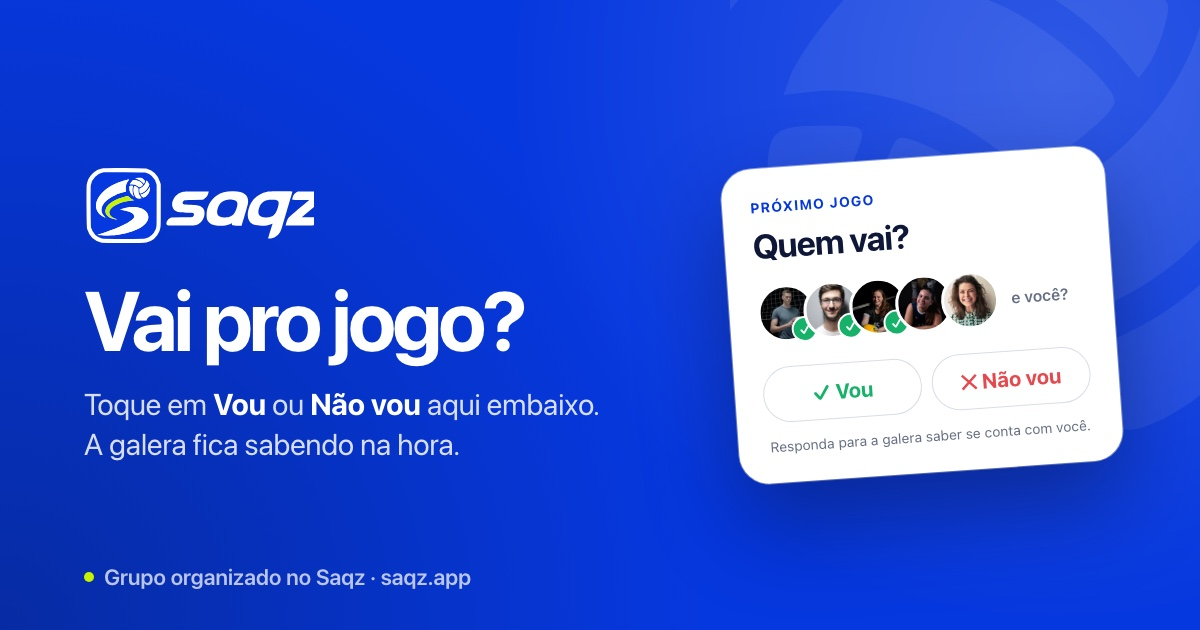
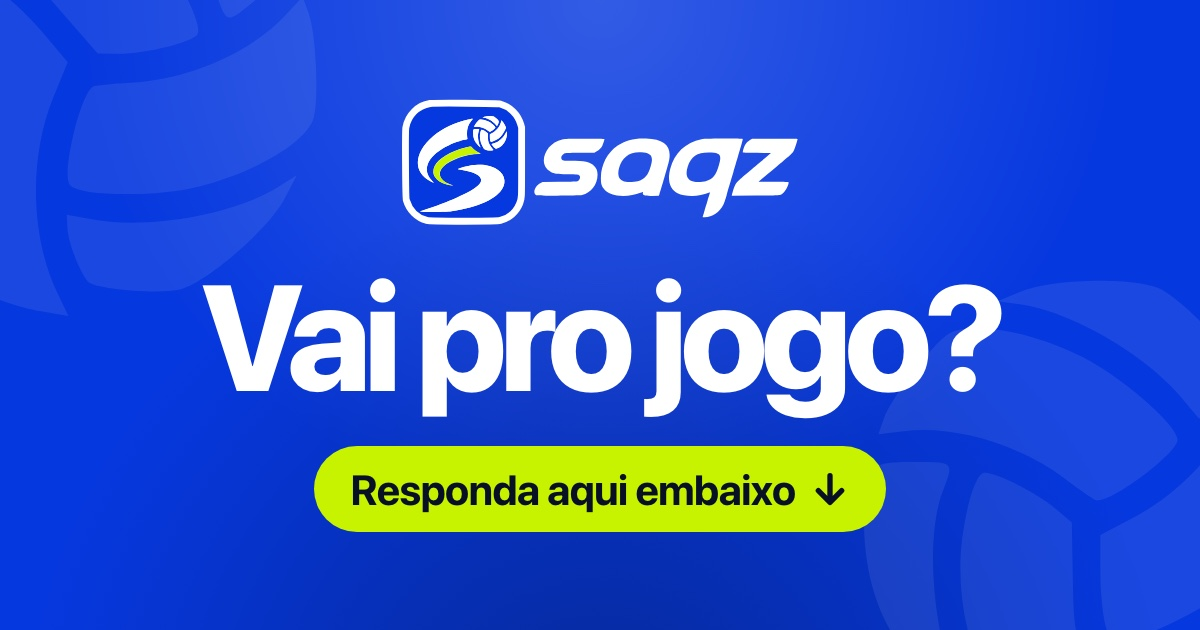
fix(links): imagens do WhatsApp com poucos elementos e grandes
No celular a imagem aparece com ~1/4 do tamanho e o texto pequeno e o
cartão viravam detalhe ilegível. Agora cada uma tem só logo, uma frase
e um destaque, centralizados: "Vai pro jogo?" + "Responda aqui embaixo"
no lembrete; "Seu vôlei está no Saqz" + "Quem vai, onde é e quem pagou"
na prévia dos links.

O logo negativo cortava o "z" (o viewBox terminava antes do fim da
palavra) e a bola decorativa trazia um pedaço do traço da marca.

diff --git a/design/whatsapp/base.css b/design/whatsapp/base.css
@@ -1,39 +1,21 @@
-/* Base das imagens de WhatsApp (1200x630). Renderizar com render.sh. */
-:root { --blue:#0638df; --lime:#c7f300; --ink:#0e1738; --muted:#667085; --border:#d8dde8; --soft:#f4f8fb; --green:#17b26a; --red:#e5484d; }
+/* Base das imagens de WhatsApp (1200x630). No WhatsApp a imagem aparece com ~1/4 do tamanho:
+   poucos elementos e grandes (logo, uma frase, um destaque). Renderizar com render.sh. */
+:root { --blue:#0638df; --lime:#c7f300; --ink:#071025; }
 * { box-sizing:border-box; }
 html, body { margin:0; width:1200px; height:630px; overflow:hidden; background:var(--blue); }
 body { font-family:-apple-system,"SF Pro Display",system-ui,sans-serif; color:#fff; -webkit-font-smoothing:antialiased; }
 .canvas { position:relative; width:1200px; height:630px; overflow:hidden;
   background:
-    radial-gradient(circle at 88% 12%, rgba(255,255,255,.16), transparent 46%),
-    radial-gradient(circle at 0% 100%, rgba(7,16,37,.32), transparent 52%),
+    radial-gradient(circle at 50% 0%, rgba(255,255,255,.18), transparent 60%),
+    radial-gradient(circle at 50% 120%, rgba(7,16,37,.38), transparent 60%),
     var(--blue); }
-.ball { position:absolute; width:620px; height:620px; right:-150px; top:-120px; opacity:.07; }
-.copy { position:absolute; left:84px; top:0; bottom:0; width:600px; display:flex; flex-direction:column; justify-content:center; }
-.logo { width:230px; height:auto; display:block; }
-h1 { margin:34px 0 0; font-size:84px; font-weight:700; line-height:1; letter-spacing:-.045em; }
-h1.long { font-size:66px; line-height:1.03; }
-.lead { margin:22px 0 0; max-width:540px; font-size:30px; line-height:1.32; letter-spacing:-.012em; color:rgba(255,255,255,.84); }
-.lead b { color:#fff; font-weight:700; }
-.foot { position:absolute; left:84px; bottom:40px; display:flex; align-items:center; gap:10px; font-size:22px; font-weight:600; letter-spacing:-.005em; color:rgba(255,255,255,.72); }
-.foot::before { content:""; width:10px; height:10px; border-radius:50%; background:var(--lime); }
-
-/* Cartão no visual do app */
-.card { position:absolute; right:86px; top:50%; width:384px; padding:30px 28px 26px; border-radius:30px; background:#fff; color:var(--ink);
-  transform:translateY(-50%) rotate(-4deg); box-shadow:0 40px 90px rgba(4,14,60,.45), 0 0 0 1px rgba(255,255,255,.5); }
-.eyebrow { font-size:14px; font-weight:700; letter-spacing:.08em; color:var(--blue); }
-.card h3 { margin:10px 0 0; font-size:34px; font-weight:700; letter-spacing:-.03em; }
-.faces { display:flex; align-items:center; margin-top:20px; }
-.face { position:relative; width:58px; height:58px; margin-right:-12px; border-radius:50%; border:3px solid #fff; background:#dfe5f0 center/cover; }
-.face.ok::after { content:"✓"; position:absolute; right:-4px; bottom:-4px; width:22px; height:22px; border-radius:50%; border:2px solid #fff; background:var(--green); color:#fff; font-size:12px; font-weight:800; display:grid; place-items:center; }
-.faces small { margin-left:24px; font-size:16px; font-weight:600; color:var(--muted); }
-.response { display:flex; gap:10px; margin-top:24px; }
-.response span { flex:1; display:flex; align-items:center; justify-content:center; gap:8px; height:56px; border:1.5px solid var(--border); border-radius:999px; font-size:21px; font-weight:700; }
-.response .yes { color:var(--green); }
-.response .no { color:var(--red); }
-.hint { margin:14px 0 0; font-size:14px; line-height:1.4; color:var(--muted); text-align:center; }
-.rows { margin-top:22px; border-top:1px solid var(--border); }
-.row { display:flex; align-items:center; gap:14px; padding:14px 0; border-bottom:1px solid var(--border); font-size:19px; font-weight:600; letter-spacing:-.01em; }
-.row i { width:38px; height:38px; flex:none; display:grid; place-items:center; border-radius:50%; background:var(--soft); color:var(--blue); font-style:normal; }
-.row svg { width:20px; height:20px; fill:none; stroke:currentColor; stroke-width:2; stroke-linecap:round; stroke-linejoin:round; }
-.join { display:flex; align-items:center; justify-content:center; height:58px; margin-top:22px; border-radius:999px; background:var(--blue); color:#fff; font-size:21px; font-weight:700; letter-spacing:-.01em; }
+.ball { position:absolute; width:560px; height:560px; opacity:.08; }
+.ball.right { right:-190px; bottom:-170px; }
+.ball.left { left:-210px; top:-200px; transform:rotate(140deg); }
+.stack { position:absolute; inset:0; display:flex; flex-direction:column; align-items:center; justify-content:center; text-align:center; }
+.logo { width:400px; height:auto; display:block; }
+h1 { margin:34px 0 0; font-size:150px; font-weight:800; line-height:.98; letter-spacing:-.05em; }
+h1.two { font-size:118px; line-height:1; }
+.pill { display:inline-flex; align-items:center; gap:14px; margin-top:38px; padding:18px 36px; border-radius:999px;
+  background:var(--lime); color:var(--ink); font-size:42px; font-weight:700; letter-spacing:-.02em; }
+.pill svg { width:40px; height:40px; fill:none; stroke:currentColor; stroke-width:3.2; stroke-linecap:round; stroke-linejoin:round; }

diff --git a/design/whatsapp/link.html b/design/whatsapp/link.html
@@ -8,29 +8,12 @@
 <body>
 <!-- og:image de links.saqz.app: convite, presença e onboarding compartilhados à mão no WhatsApp. -->
 <div class="canvas">
-  <img class="ball" src="bola.svg" alt="">
-  <div class="copy">
+  <img class="ball left" src="bola.svg" alt="">
+  <img class="ball right" src="bola.svg" alt="">
+  <div class="stack">
     <img class="logo" src="saqz-logo-negativo.svg" alt="Saqz">
-    <h1 class="long">Seu grupo de vôlei está no Saqz</h1>
-    <p class="lead">Entre no grupo e responda os jogos em um toque, sem caçar mensagem.</p>
-  </div>
-  <span class="foot">Organize o seu também · saqz.app</span>
-  <div class="card">
-    <div class="eyebrow">SEU GRUPO</div>
-    <h3>A galera está aqui</h3>
-    <div class="faces">
-      <span class="face" style="background-image:url(../../landing-page/assets/img/face-1.jpg)"></span>
-      <span class="face" style="background-image:url(../../landing-page/assets/img/face-2.jpg)"></span>
-      <span class="face" style="background-image:url(../../landing-page/assets/img/face-3.jpg)"></span>
-      <span class="face" style="background-image:url(../../landing-page/assets/img/face-4.jpg)"></span>
-      <span class="face" style="background-image:url(../../landing-page/assets/img/face-5.jpg)"></span>
-    </div>
-    <div class="rows">
-      <div class="row"><i><svg viewBox="0 0 24 24"><path d="m5 12 4 4L19 6"/></svg></i>Quem vai no próximo jogo</div>
-      <div class="row"><i><svg viewBox="0 0 24 24"><path d="M12 21s-7-6.2-7-11.5a7 7 0 0 1 14 0C19 14.8 12 21 12 21z"/><circle cx="12" cy="9.5" r="2.5"/></svg></i>Onde é e que horas</div>
-      <div class="row"><i><svg viewBox="0 0 24 24"><rect x="2" y="5" width="20" height="14" rx="2"/><path d="M2 10h20"/></svg></i>Quem já pagou</div>
-    </div>
-    <div class="join">Entrar no grupo</div>
+    <h1 class="two">Seu vôlei<br>está no Saqz</h1>
+    <span class="pill">Quem vai, onde é e quem pagou</span>
   </div>
 </div>
 </body>

diff --git a/design/whatsapp/lembrete.html b/design/whatsapp/lembrete.html
@@ -8,26 +8,12 @@
 <body>
 <!-- Topo da mensagem de botões "Vou"/"Não vou" que o Saqz manda no grupo vinculado. -->
 <div class="canvas">
-  <img class="ball" src="bola.svg" alt="">
-  <div class="copy">
+  <img class="ball left" src="bola.svg" alt="">
+  <img class="ball right" src="bola.svg" alt="">
+  <div class="stack">
     <img class="logo" src="saqz-logo-negativo.svg" alt="Saqz">
     <h1>Vai pro jogo?</h1>
-    <p class="lead">Toque em <b>Vou</b> ou <b>Não vou</b> aqui embaixo.<br>A galera fica sabendo na hora.</p>
-  </div>
-  <span class="foot">Grupo organizado no Saqz · saqz.app</span>
-  <div class="card">
-    <div class="eyebrow">PRÓXIMO JOGO</div>
-    <h3>Quem vai?</h3>
-    <div class="faces">
-      <span class="face ok" style="background-image:url(../../landing-page/assets/img/face-1.jpg)"></span>
-      <span class="face ok" style="background-image:url(../../landing-page/assets/img/face-2.jpg)"></span>
-      <span class="face ok" style="background-image:url(../../landing-page/assets/img/face-3.jpg)"></span>
-      <span class="face" style="background-image:url(../../landing-page/assets/img/face-4.jpg)"></span>
-      <span class="face" style="background-image:url(../../landing-page/assets/img/face-5.jpg)"></span>
-      <small>e você?</small>
-    </div>
-    <div class="response"><span class="yes">✓ Vou</span><span class="no">✕ Não vou</span></div>
-    <p class="hint">Responda para a galera saber se conta com você.</p>
+    <span class="pill">Responda aqui embaixo <svg viewBox="0 0 24 24"><path d="M12 4v16m-7-7 7 7 7-7"/></svg></span>
   </div>
 </div>
 </body>
